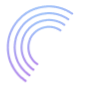
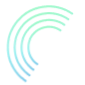
updated portfolio

diff --git a/public/assets/scss/layout/footer/_footer.scss b/public/assets/scss/layout/footer/_footer.scss
@@ -6,84 +6,105 @@
 
 
 // Footer Style 02
-.footer{
-	&__top{
+.footer {
+	&__top {
 		display: flex;
-        justify-content: space-between;
+		justify-content: space-between;
 		padding-bottom: 35px;
-		@media #{$xxs}{
+
+		@media #{$xxs} {
 			flex-wrap: wrap;
 			gap: 30px;
 		}
 	}
-	&__bottom{
+
+	&__bottom {
 		// border-top: 1px solid var(--bd-border-primary);
 		padding: 35px 0 50px;
 		display: grid;
- 		grid-template-columns: repeat(4,1fr);
-		 gap: 50px 0;
-		 @media #{$md}{
+		grid-template-columns: repeat(4, 1fr);
+		gap: 50px 0;
+
+		@media #{$md} {
 			grid-template-columns: auto auto auto;
-		 }
-		 @media #{$sm}{
-			grid-template-columns: repeat(2,1fr);
-		 }
-		 @media #{$xs}{
-			grid-template-columns: repeat(1,1fr);
-		 }
+		}
+
+		@media #{$sm} {
+			grid-template-columns: repeat(2, 1fr);
+		}
+
+		@media #{$xs} {
+			grid-template-columns: repeat(1, 1fr);
+		}
 	}
-	&__widget{
-		&:first-child{
-			@media #{$md}{
+
+	&__widget {
+		&:first-child {
+			@media #{$md} {
 				margin-right: 60px;
 			}
 		}
+
 		&:nth-child(2) {
 			margin-left: 55px;
-			@media #{$lg}{
+
+			@media #{$lg} {
 				margin-left: 30px;
 			}
-			@media #{$md}{
+
+			@media #{$md} {
 				margin-left: 0;
 				margin-right: 60px;
 			}
-			@media #{$xs}{
+
+			@media #{$xs} {
 				margin-left: 0;
 			}
 		}
+
 		&:nth-child(3) {
 			margin-left: 25px;
-			@media #{$lg}{
+
+			@media #{$lg} {
 				margin-left: -10px;
 			}
-			@media #{$sm,$xs}{
+
+			@media #{$sm,$xs} {
 				margin-left: 0;
 			}
 		}
+
 		&:nth-child(4) {
-			@media #{$lg}{
+			@media #{$lg} {
 				margin-left: -20px;
 			}
 		}
 	}
-	&__widget-title{
+
+	&__widget-title {
 		margin-bottom: 25px;
-		h4{
+
+		h4 {
 			font-weight: 500;
 		}
 	}
+
 	&__links {
 		ul {
+
 			// display: grid;
 			// grid-template-columns: 1fr;
 			li {
 				list-style: none;
+
 				&:not(:last-child) {
 					margin-bottom: 14px;
 				}
+
 				a {
 					font-size: 16px;
 					position: relative;
+
 					&:hover {
 						color: var(--bd-theme-primary);
 					}
@@ -91,14 +112,17 @@
 			}
 		}
 	}
-	&__input{
+
+	&__input {
 		position: relative;
 		margin: 20px 0 10px;
-		input{
+
+		input {
 			border: 2px solid var(--bd-border-primary);
 		}
 	}
-	&__btn{
+
+	&__btn {
 		position: absolute;
 		top: 0;
 		background: var(--bd-theme-primary);
@@ -108,31 +132,38 @@
 		transform: translateY(-50%);
 		color: var(--bd-common-white);
 		padding: 11px 18px;
-		&:hover{
+
+		&:hover {
 			background: var(--bd-theme-secondary);
 		}
-		i{
+
+		i {
 			font-size: 18px;
 		}
 	}
-	&__area{
-		&.is-footer-pad{
+
+	&__area {
+		&.is-footer-pad {
 			padding-top: 230px;
 		}
-		&.style-two{
+
+		&.style-two {
 			position: relative;
-			.footer{
-				&__bottom{
+
+			.footer {
+				&__bottom {
 					padding: 0 0 50px;
 
 				}
-				&__bg-thumb{
+
+				&__bg-thumb {
 					width: 100%;
 					height: 100%;
 					position: absolute;
 					z-index: -1;
 					top: 0;
-					&::before{
+
+					&::before {
 						position: absolute;
 						width: 100%;
 						height: 100%;
@@ -143,33 +174,42 @@
 						z-index: 1;
 					}
 				}
-				&__widget{
-					&-gallery{
-						ul{
+
+				&__widget {
+					&-gallery {
+						ul {
 							display: grid;
 							grid-template-columns: repeat(2, 120px);
 							gap: 10px;
-							li{
+
+							li {
 								list-style: none;
-								a{
+
+								a {
 									position: relative;
 									display: block;
-									&::before{
+
+									&::before {
 										width: 100%;
 										height: 100%;
 										content: "";
 										position: absolute;
 										border-radius: 4px;
-										background: linear-gradient(90deg, rgba(66, 134, 244, 0.60) 0%, rgba(99, 14, 217, 0.60) 100%);
+										background: linear-gradient(90deg,
+												rgba(43, 185, 160, 0.70) 0.33%,
+												rgba(43, 185, 160, 0.00) 99.73%);
+
 										opacity: 0;
 										z-index: 1;
 										transition: .3s;
 									}
-									img{
+
+									img {
 										border-radius: 4px;
 									}
-									&:hover{
-										&::before{
+
+									&:hover {
+										&::before {
 											opacity: 1;
 										}
 									}
@@ -180,7 +220,8 @@
 				}
 			}
 		}
-		&.footer-bg{
+
+		&.footer-bg {
 			background: rgba(45, 46, 47, .2);
 		}
 	}

diff --git a/src/components/common/Preloader/Preloader.tsx b/src/components/common/Preloader/Preloader.tsx
@@ -1,40 +1,14 @@
-// import React from 'react';
-
-// const Preloader = () => {
-//     return (
-//         <>
-//             <div id="preloader" className="sk-three-bounce">
-//                 <div className="sk-child sk-bounce1"></div>
-//                 <div className="sk-child sk-bounce2"></div>
-//                 <div className="sk-child sk-bounce3"></div>
-//             </div>
-//         </>
-//     );
-// };
-
-// export default Preloader;
-
-import React, { useEffect, useState } from "react";
+import React from "react";
 
 const Preloader = () => {
-  const [loading, setLoading] = useState(true);
-
-  useEffect(() => {
-    const timer = setTimeout(() => {
-      setLoading(false);
-    }, 1000);
-
-    return () => clearTimeout(timer);
-  }, []);
-
-  if (!loading) return null;
-
   return (
-    <div id="preloader" className="sk-three-bounce">
-      <div className="sk-child sk-bounce1"></div>
-      <div className="sk-child sk-bounce2"></div>
-      <div className="sk-child sk-bounce3"></div>
-    </div>
+    <>
+      <div id="preloader" className="sk-three-bounce">
+        <div className="sk-child sk-bounce1"></div>
+        <div className="sk-child sk-bounce2"></div>
+        <div className="sk-child sk-bounce3"></div>
+      </div>
+    </>
   );
 };
 

diff --git a/public/assets/scss/layout/pages/_team.scss b/public/assets/scss/layout/pages/_team.scss
@@ -320,7 +320,10 @@
       top: 0;
       z-index: -1;
       border-radius: 8px;
-      background: linear-gradient(0deg, rgba(66, 134, 244, 0.70) 0.33%, rgba(66, 134, 244, 0.00) 99.73%);
+      background: linear-gradient(0deg,
+          rgba(43, 185, 160, 0.70) 0.33%,
+          rgba(43, 185, 160, 0.00) 99.73%);
+
       box-shadow: 4px 4px 10px 0px rgba(0, 0, 0, 0.25), -4px -4px 10px 0px rgba(0, 0, 0, 0.25);
       transition: 0.6s cubic-bezier(0.5, 1, 0.89, 1);
       opacity: 0;
